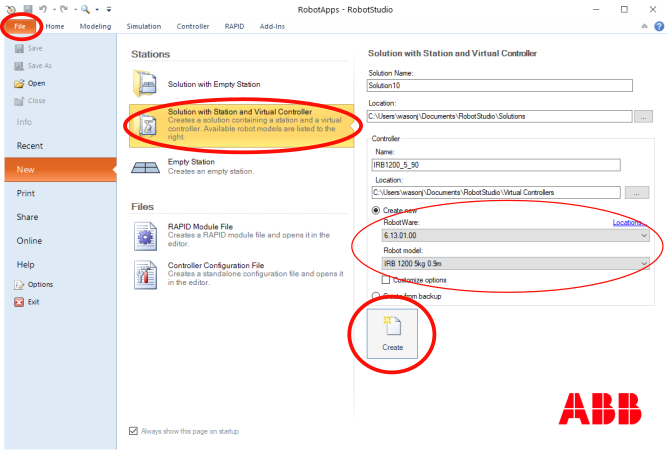
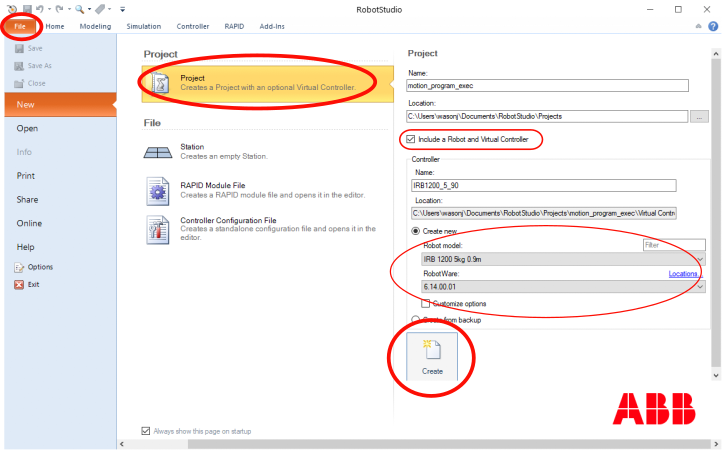
Update single robot documentation

diff --git a/doc/robot_setup_manual.md b/doc/robot_setup_manual.md
@@ -30,10 +30,10 @@ RobotStudio is now ready to create a solution.
 
 ## 2. Create Solution and Install Robot
 
-Click on the "File" tab, and then "Solution with Station and Virtual Controller". Select the 
+Click on the "File" tab, and then "New". Check "Include a Robot and Virtual Controller". Select the 
 RobotWare version installed in Step 1, in this case "6.14.00.01". For this example, the 
 "IRB 1200 5kg 0.9m" robot is used. Any 6 or 7 axis single-arm robot can be used instead. Change
-the "Solution Name" if desired. Click "Create" when ready.
+the project "Name" if desired. Uncheck "Customize Options".  Click "Create" when ready.
 
 ![](figures/robotstudio_new_solution.png)
 
@@ -78,8 +78,9 @@ files should now be visible under "HOME" in the tree view in RobotStudio.
 Right click on "Configuration" in the controller tree, and click on "Load Parameters". Browse to 
 `<repo_root>/robot/config_params` and select `SYS.cfg`. Click OK to confirm loading parameters,
 and OK to acknowledge restart is required. Repeat for `EIO.cfg` in the same directory. Make sure
-"Load parameters and replace duplicates" is selected in the file browser window for both. Click
-"Restart" to restart the controller.
+"Load parameters and replace duplicates" is selected in the file browser window for both.  Click
+"Controller" -> "Restart (drop down)" -> "Reset RAPID (P-Start)" to restart the controller with 
+the new software. Select "OK" to confirm RAPID reset.
 
 ![](figures/robotstudio_restart.png)
 

diff --git a/doc/robot_multimove_setup_manual.md b/doc/robot_multimove_setup_manual.md
@@ -47,7 +47,7 @@ New we will add two robots to the solution. First, add the IRB 1200. Click "Home
 If a window "IRB 1200" appears, select "Standard", "0.9 m", "Standard". The bottom right should show 
 "IRB1200_5_90_STD_03". Click "OK".
 
-![](figures/robotstudio_irb1200_select.png)
+![](figures/multimove/robotstudio_irb1200_select2.png)
 
 Right click on "IRB1200_5_90_STD_03" under "Layout", click "Position" -> "Set Position". In the
 "Set Position" box in the upper left, type in xyz = (1000,0,500), rpy = (0,0,180). Click "Apply"
